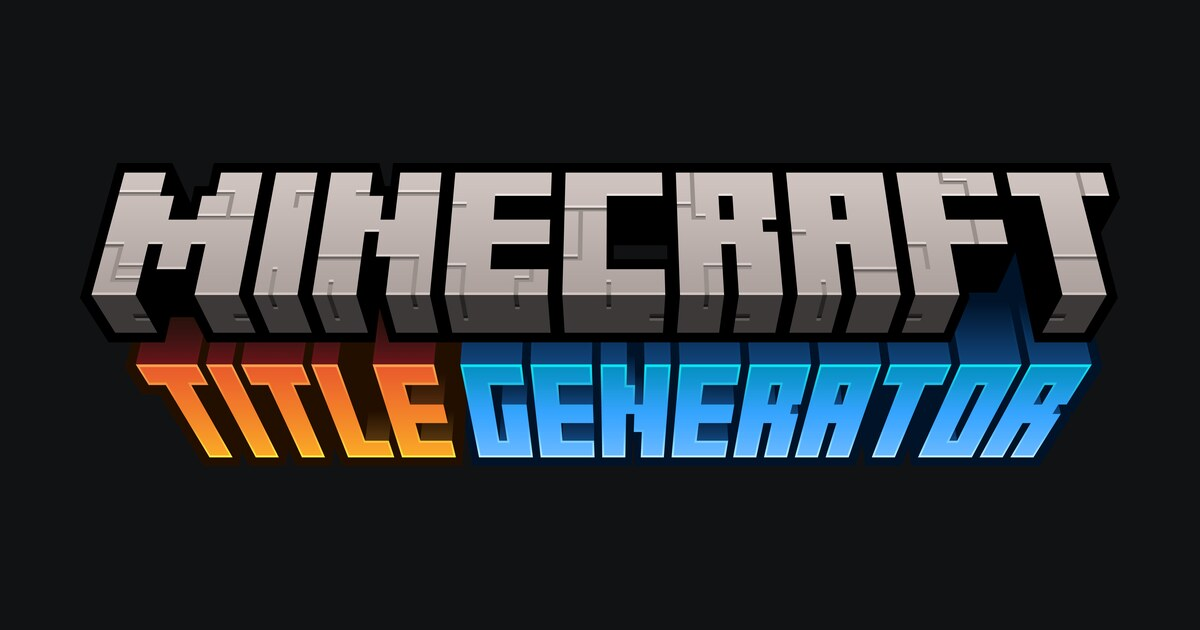
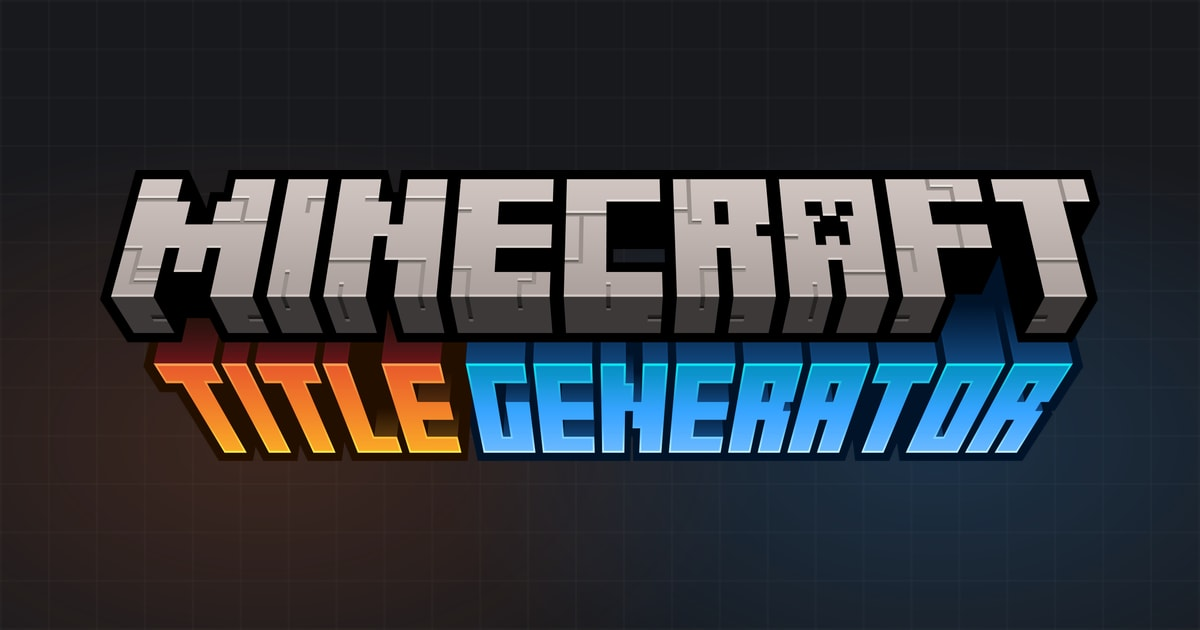
give every public page a share card
each page gets its own image with its name under the logo, and the descriptions are rewritten

diff --git a/src/pages.js b/src/pages.js
@@ -2,17 +2,24 @@ export const SITE = "https://mctitlegenerator.com"
 export const TAGLINE = "Make your own Minecraft style 3D titles, right in your browser!"
 
 const SUFFIX = " | Minecraft Title Generator"
-const GENERATOR = "Make your own Minecraft style 3D titles in your browser, then render them as images."
+
+const APP = {
+  "@context": "https://schema.org",
+  "@graph": [
+    { "@type": "WebSite", name: "Minecraft Title Generator", url: `${SITE}/` },
+    { "@type": "WebApplication", name: "Minecraft Title Generator", url: `${SITE}/app/`, description: TAGLINE, image: `${SITE}/home/og.jpg`, applicationCategory: "DesignApplication", operatingSystem: "Any", browserRequirements: "Requires JavaScript and WebGL", isAccessibleForFree: true, offers: { "@type": "Offer", price: "0", priceCurrency: "USD" }, author: { "@type": "Person", name: "Ewan Howell", url: "https://ewanhowell.com" } }
+  ]
+}
 
 export const PAGES = [
-  { name: "home", file: "index.html", paths: ["/"], title: "Minecraft Title Generator", description: GENERATOR, styles: "site bar", header: "floating", footer: true, share: true, head: "<link rel=\"preload\" href=\"/home/logo.bin\" as=\"fetch\" crossorigin>" },
-  { name: "app", file: "app/index.html", paths: ["/app/", "/app/presets/:id(\\d+)?"], title: "Minecraft Title Generator", description: GENERATOR, styles: "tool", stays: true },
-  { name: "font-editor", file: "font-editor/index.html", paths: ["/font-editor/"], title: "Minecraft Title Generator Font Editor", description: "Draw your own Minecraft style font in your browser, then download it for the Minecraft Title Generator.", styles: "tool editor" },
-  { name: "credits", file: "credits/index.html", paths: ["/credits/"], title: `Credits${SUFFIX}`, description: "Everyone who made the fonts, textures and shapes in the Minecraft Title Generator.", styles: "site bar", header: "fixed", footer: true, share: true },
-  { name: "submit", file: "submit/index.html", paths: ["/submit/"], title: `Submit${SUFFIX}`, description: "Send your own fonts, textures, overlays, strips, tileables and shapes to the Minecraft Title Generator so everyone can use them.", styles: "tool bar submissions", header: "fixed" },
+  { name: "home", file: "index.html", paths: ["/"], title: "Minecraft Title Generator", description: TAGLINE, styles: "site bar", header: "floating", footer: true, data: APP, head: "<link rel=\"preload\" href=\"/home/logo.bin\" as=\"fetch\" crossorigin>" },
+  { name: "app", file: "app/index.html", paths: ["/app/", "/app/presets/:id(\\d+)?"], title: "Minecraft Title Generator", description: TAGLINE, styles: "tool", stays: true },
+  { name: "font-editor", file: "font-editor/index.html", paths: ["/font-editor/"], title: "Minecraft Title Generator Font Editor", image: "Font Editor", description: "Create your own Minecraft style fonts for the title generator, right in your browser!", styles: "tool editor" },
+  { name: "credits", file: "credits/index.html", paths: ["/credits/"], title: `Credits${SUFFIX}`, image: "Credits", description: "Everyone who has made the fonts, textures and shapes in the Minecraft Title Generator.", styles: "site bar", header: "fixed", footer: true },
+  { name: "submit", file: "submit/index.html", paths: ["/submit/"], title: `Submit${SUFFIX}`, image: "Submit", description: "Submit your own fonts, textures and shapes to the title generator for everyone to use!", styles: "tool bar submissions", header: "fixed" },
   { name: "submissions", file: "submissions/index.html", paths: ["/submissions/", "/submissions/:id(\\d+)/", "/submissions/:id(\\d+)/edit/"], title: `Submissions${SUFFIX}`, description: "Your submissions to the Minecraft Title Generator and their reviews.", styles: "tool bar submissions", header: "fixed", hidden: true },
   { name: "account", file: "account/index.html", paths: ["/account/"], title: `Manage account${SUFFIX}`, description: "Manage or delete your Minecraft Title Generator account.", styles: "tool bar submissions", header: "fixed", hidden: true },
-  { name: "terms", file: "terms/index.html", paths: ["/terms/"], title: `Terms of Service${SUFFIX}`, description: "The terms for using the Minecraft Title Generator, sharing presets, and sending submissions.", styles: "site bar", header: "fixed", footer: true, share: true },
-  { name: "privacy", file: "privacy/index.html", paths: ["/privacy/"], title: `Privacy Policy${SUFFIX}`, description: "What data the Minecraft Title Generator stores, why, how long it is kept, and how to remove it.", styles: "site bar", header: "fixed", footer: true, share: true },
+  { name: "terms", file: "terms/index.html", paths: ["/terms/"], title: `Terms of Service${SUFFIX}`, image: "Terms of Service", description: "The terms of service for using the Minecraft Title Generator, sharing presets, and sending submissions.", styles: "site bar", header: "fixed", footer: true },
+  { name: "privacy", file: "privacy/index.html", paths: ["/privacy/"], title: `Privacy Policy${SUFFIX}`, image: "Privacy Policy", description: "What data the Minecraft Title Generator stores, and how to remove it.", styles: "site bar", header: "fixed", footer: true },
   { name: "not-found", file: "404.html", paths: ["/:path(.*)*"], title: `Page not found${SUFFIX}`, description: "This page doesn't exist on the Minecraft Title Generator.", styles: "site bar", header: "fixed", footer: true, hidden: true }
 ]

diff --git a/src/server/presets.js b/src/server/presets.js
@@ -8,13 +8,13 @@ import { limitProblem, titleFacts, titleProblem } from "../lib/titleFacts.js"
 import { blockedWordProblem } from "../lib/wording.js"
 import { USER_ROW, activeUser, forgetUnusedUser, requireUser, saveUser, signedInUser } from "./accounts.js"
 import { nextDay, returnSlot, takeSlot, today } from "./daily.js"
-import { INVALID, Refusal, cachedAtEdge, escaped, guarded, hashed, idParam, jsonBody, randomToken, reply, setting, textField } from "./http.js"
+import { SITE_NAME, pageImage, pageWithDetails } from "./head.js"
+import { INVALID, Refusal, cachedAtEdge, guarded, hashed, idParam, jsonBody, randomToken, reply, setting, textField } from "./http.js"
 
 const SORTS = { week: "week DESC, downloads DESC, id DESC", popular: "downloads DESC, id DESC", top: "rating DESC, votes DESC, id DESC", new: "created_at DESC, id DESC", needs: "votes, id" }
 const MATCHES = "lower(name) LIKE ?1 ESCAPE '\\' OR lower(text) LIKE ?1 ESCAPE '\\'"
 const DAY = 86400000
 const WEEK_DAYS = 7
-const SITE_NAME = "Minecraft Title Generator"
 const FIRST_PAGES = Object.keys(SORTS).map(sort => `?sort=${sort}&offset=0`)
 const MISSING = "This preset doesn't exist."
 const STAT_COLUMNS = "downloads, votes, rating, created_at AS createdAt, (SELECT users.name FROM users WHERE users.id = presets.user_id) AS author, (SELECT users.provider FROM users WHERE users.id = presets.user_id) AS authorProvider"
@@ -193,24 +193,8 @@ export const getPreset = guarded(async context => {
 })
 
 export function presetPageDetails(name, id) {
-  if (name === null) return { title: `Presets | ${SITE_NAME}`, description: "Browse Minecraft style titles shared by other people, then open one in the generator and change it however you like.", path: "/app/presets" }
-  return { title: `${name} | ${SITE_NAME}`, description: `Open ${name} in the ${SITE_NAME}, then change it and render it as an image.`, path: `/app/presets/${id}` }
-}
-
-export function shareTags({ title, description, url, image }) {
-  const tags = [["og:type", "website"], ["og:site_name", SITE_NAME], ["og:url", url], ["og:title", title], ["og:description", description]].concat(image ? [["og:image", image]] : [])
-  const card = image ? '<meta name="twitter:card" content="summary_large_image">' : ""
-  return tags.map(([property, content]) => `<meta property="${property}" content="${escaped(content)}">`).join("") + card
-}
-
-function pageWithDetails(page, details) {
-  const { title, description, url, canonical = url } = details
-  return new HTMLRewriter()
-    .on("title", { element: element => element.setInnerContent(title) })
-    .on('meta[name="description"]', { element: element => element.setAttribute("content", description) })
-    .on('link[rel="canonical"]', { element: element => element.setAttribute("href", canonical) })
-    .on("head", { element: element => element.append(shareTags(details), { html: true }) })
-    .transform(page)
+  if (name === null) return { title: `Presets | ${SITE_NAME}`, description: "Browse Minecraft style titles other people have shared, and open any of them in the generator to make your own!", path: "/app/presets" }
+  return { title: `${name} | ${SITE_NAME}`, description: `Open this title in the ${SITE_NAME} to change it and make your own!`, path: `/app/presets/${id}` }
 }
 
 export function linkedCode(url) {
@@ -219,12 +203,14 @@ export function linkedCode(url) {
 }
 
 export function linkedTitleDetails(url, code, canonical) {
-  return { title: SITE_NAME, description: "Open this title in the generator, then change it and render it as an image.", url: url.href, canonical: `${url.origin}${canonical}`, image: pictureUrl({ code }, "png") }
+  return { title: SITE_NAME, description: `Open this title in the ${SITE_NAME} to change it and make your own!`, url: url.href, canonical: `${url.origin}${canonical}`, image: pictureUrl({ code }, "png") }
 }
 
 export function presetDetails(origin, preset, id) {
   const { title, description, path } = presetPageDetails(preset?.name ?? null, id)
-  return { title, description, url: `${origin}${path}`, image: preset?.fingerprint ? pictureUrl(preset, "png") : null }
+  if (preset?.fingerprint) return { title, description, url: `${origin}${path}`, image: pictureUrl(preset, "png") }
+  const { path: image, ...size } = pageImage("presets", "Presets")
+  return { title, description, url: `${origin}${path}`, ...size, image: `${origin}${image}` }
 }
 
 function linkedTitlePage(page, url, code, canonical) {

diff --git a/test/shell.test.js b/test/shell.test.js
@@ -32,10 +32,10 @@ describe("page shells", () => {
       assert.equal(count(head, /<meta name="robots" content="noindex">/g), page.hidden ? 1 : 0)
     })
 
-    test(`${page.file} has ${page.share ? "its" : "no"} share tags`, () => {
-      const properties = Array.from(head.matchAll(/<meta property="(og:[a-z_]+)"/g), match => match[1])
-      assert.deepEqual(properties, page.share ? ["og:type", "og:site_name", "og:url", "og:title", "og:description", "og:image"] : [])
-      assert.equal(count(head, /<meta name="twitter:card"/g), page.share ? 1 : 0)
+    test(`${page.file} has ${page.hidden ? "no" : "its"} share tags`, () => {
+      const properties = Array.from(head.matchAll(/<meta property="(og:[a-z_:]+)"/g), match => match[1])
+      assert.deepEqual(properties, page.hidden ? [] : ["og:type", "og:site_name", "og:locale", "og:url", "og:title", "og:description", "og:image", "og:image:width", "og:image:height", "og:image:alt"])
+      assert.equal(count(head, /<meta name="twitter:card" content="summary_large_image">/g), page.hidden ? 0 : 1)
     })
   }
 
@@ -46,6 +46,15 @@ describe("page shells", () => {
     assert.equal(unescaped(html.match(/<title>([^<]*)<\/title>/)[1]), page.title)
     assert.equal(unescaped(html.match(/<meta name="description" content="([^"]*)">/)[1]), page.description)
     assert.equal(unescaped(html.match(/<meta property="og:title" content="([^"]*)">/)[1]), page.title)
+  })
+
+  test("the homepage describes the site and the generator as structured data", () => {
+    const page = PAGES.find(item => item.name === "home")
+    const html = shellHtml(fs.readFileSync(page.file, "utf8"), page)
+    const data = JSON.parse(html.match(/<script type="application\/ld\+json">(.*?)<\/script>/)[1])
+    assert.deepEqual(data["@graph"].map(item => item["@type"]), ["WebSite", "WebApplication"])
+    assert.equal(data["@graph"][1].url, `${SITE}/app/`)
+    assert.equal(PAGES.filter(item => item.data).length, 1)
   })
 
   test("a page is found by its file", () => {

diff --git a/test/head.test.js b/test/head.test.js
@@ -1,0 +1,34 @@
+import assert from "node:assert/strict"
+import { describe, test } from "node:test"
+import { shareTags, withoutShareTags } from "../src/server/head.js"
+
+function properties(html) {
+  return Object.fromEntries(Array.from(html.matchAll(/<meta property="([^"]+)" content="([^"]*)">/g), match => [match[1], match[2]]))
+}
+
+describe("share tags", () => {
+  const page = { title: "A page", description: "About it", url: "https://example.com/page" }
+
+  test("a page with no image gets a small card", () => {
+    const html = shareTags(page)
+    assert.deepEqual(Object.keys(properties(html)), ["og:type", "og:site_name", "og:locale", "og:url", "og:title", "og:description"])
+    assert.ok(html.endsWith('<meta name="twitter:card" content="summary">'))
+  })
+
+  test("an image is described, with its size when that is known", () => {
+    const plain = properties(shareTags({ ...page, image: "https://example.com/a.png" }))
+    assert.deepEqual([plain["og:image"], plain["og:image:alt"], plain["og:image:width"]], ["https://example.com/a.png", "A page", undefined])
+    const sized = properties(shareTags({ ...page, image: "https://example.com/a.png", alt: "A logo", width: 1200, height: 630 }))
+    assert.deepEqual([sized["og:image:width"], sized["og:image:height"], sized["og:image:alt"]], ["1200", "630", "A logo"])
+    assert.ok(shareTags({ ...page, image: "https://example.com/a.png" }).endsWith('<meta name="twitter:card" content="summary_large_image">'))
+  })
+
+  test("text is escaped", () => {
+    assert.equal(properties(shareTags({ ...page, title: "Blocks & \"Items\"" }))["og:title"], "Blocks &#38; &#34;Items&#34;")
+  })
+
+  test("a page's own share tags can be taken out before others go in", () => {
+    const html = `<head><title>x</title>${shareTags({ ...page, image: "https://example.com/a.png" })}<link rel="canonical" href="y"></head>`
+    assert.equal(withoutShareTags(html), '<head><title>x</title><link rel="canonical" href="y"></head>')
+  })
+})

diff --git a/src/server/head.js b/src/server/head.js
@@ -1,0 +1,32 @@
+import { escaped } from "./http.js"
+
+export const SITE_NAME = "Minecraft Title Generator"
+export const SHARE_IMAGE = { path: "/home/og.jpg", width: 1200, height: 630, alt: "The Minecraft Title Generator logo" }
+
+export function pageImage(name, label) {
+  return { ...SHARE_IMAGE, path: `/home/og-${name}.jpg`, alt: `The Minecraft Title Generator logo, with ${label} under it` }
+}
+
+export function shareTags({ title, description, url, image = null, alt = title, width = null, height = null }) {
+  const page = [["og:type", "website"], ["og:site_name", SITE_NAME], ["og:locale", "en_GB"], ["og:url", url], ["og:title", title], ["og:description", description]]
+  const sized = width && height ? [["og:image:width", String(width)], ["og:image:height", String(height)]] : []
+  const picture = image ? [["og:image", image]].concat(sized, [["og:image:alt", alt]]) : []
+  const card = `<meta name="twitter:card" content="${image ? "summary_large_image" : "summary"}">`
+  return page.concat(picture).map(([property, content]) => `<meta property="${property}" content="${escaped(content)}">`).join("") + card
+}
+
+export function withoutShareTags(html) {
+  return html.replace(/<meta (?:property="og:|name="twitter:)[^>]*>/g, "")
+}
+
+export function pageWithDetails(page, details) {
+  const { title, description, url, canonical = url } = details
+  return new HTMLRewriter()
+    .on("title", { element: element => element.setInnerContent(title) })
+    .on('meta[name="description"]', { element: element => element.setAttribute("content", description) })
+    .on('link[rel="canonical"]', { element: element => element.setAttribute("href", canonical) })
+    .on('meta[property^="og:"]', { element: element => element.remove() })
+    .on('meta[name^="twitter:"]', { element: element => element.remove() })
+    .on("head", { element: element => element.append(shareTags(details), { html: true }) })
+    .transform(page)
+}

diff --git a/src/site/shell.js b/src/site/shell.js
@@ -1,6 +1,11 @@
 import { escaped } from "../server/http.js"
-import { shareTags } from "../server/presets.js"
+import { SHARE_IMAGE, pageImage, shareTags } from "../server/head.js"
 import { PAGES, SITE } from "../pages.js"
+
+function imageOf(page) {
+  const { path, ...image } = page.image ? pageImage(page.name, page.image) : SHARE_IMAGE
+  return { ...image, image: `${SITE}${path}` }
+}
 
 export function shellPage(file) {
   return PAGES.find(page => page.file === file) ?? null
@@ -24,7 +29,7 @@ export function shellHtml(html, page) {
     "<link rel=\"preconnect\" href=\"https://fonts.googleapis.com\">",
     "<link rel=\"preconnect\" href=\"https://fonts.gstatic.com\" crossorigin>",
     "<link rel=\"stylesheet\" href=\"https://fonts.googleapis.com/css2?family=Chakra+Petch:wght@500;600;700&family=Gabarito:wght@400..900&display=swap\">"
-  ], page.share ? shareTags({ title: page.title, description: page.description, url, image: `${SITE}/home/og.jpg` }) : [], page.head ?? [])
+  ], page.hidden ? [] : shareTags({ title: page.title, description: page.description, url, ...imageOf(page) }), page.data ? `<script type="application/ld+json">${JSON.stringify(page.data).replace(/</g, "\\u003c")}</script>` : [], page.head ?? [])
   return html
     .replace("<html lang=\"en\">", `<html lang="en" data-styles="${page.styles}">`)
     .replace("<head></head>", `<head>\n    ${head.join("\n    ")}\n  </head>`)

diff --git a/vite.config.js b/vite.config.js
@@ -5,7 +5,8 @@ import { defineConfig } from "vite"
 import { PAGES } from "./src/pages.js"
 import { creditPeople, creditsHtml } from "./src/server/credits.js"
 import { escaped } from "./src/server/http.js"
-import { linkedCode, linkedTitleDetails, presetDetails, shareTags } from "./src/server/presets.js"
+import { shareTags, withoutShareTags } from "./src/server/head.js"
+import { linkedCode, linkedTitleDetails, presetDetails } from "./src/server/presets.js"
 import { shellHtml, shellPage } from "./src/site/shell.js"
 
 const LIVE = "https://mctitlegenerator.com"
@@ -38,7 +39,7 @@ async function pageDetails(url) {
 
 function withDetails(html, details) {
   const { title, description, url, canonical = url } = details
-  return html
+  return withoutShareTags(html)
     .replace(/<title>[^<]*<\/title>/, () => `<title>${escaped(title)}</title>`)
     .replace(/(<meta name="description" content=")[^"]*/, (_, start) => start + escaped(description))
     .replace(/(<link rel="canonical" href=")[^"]*/, (_, start) => start + escaped(canonical))

diff --git a/test/server-presets.test.js b/test/server-presets.test.js
@@ -868,14 +868,14 @@ describe("preset page details", () => {
   test("the presets page has its own title and address", () => {
     const { title, description, path } = presetPageDetails(null)
     assert.equal(title, "Presets | Minecraft Title Generator")
-    assert.match(description, /shared by other people/)
+    assert.match(description, /other people have shared/)
     assert.equal(path, "/app/presets")
   })
 
   test("a preset has its name in the title and its own address", () => {
     const { title, description, path } = presetPageDetails("Iron and Ember", 12)
     assert.equal(title, "Iron and Ember | Minecraft Title Generator")
-    assert.match(description, /Open Iron and Ember in the/)
+    assert.equal(description, "Open this title in the Minecraft Title Generator to change it and make your own!")
     assert.equal(path, "/app/presets/12")
   })
 })
